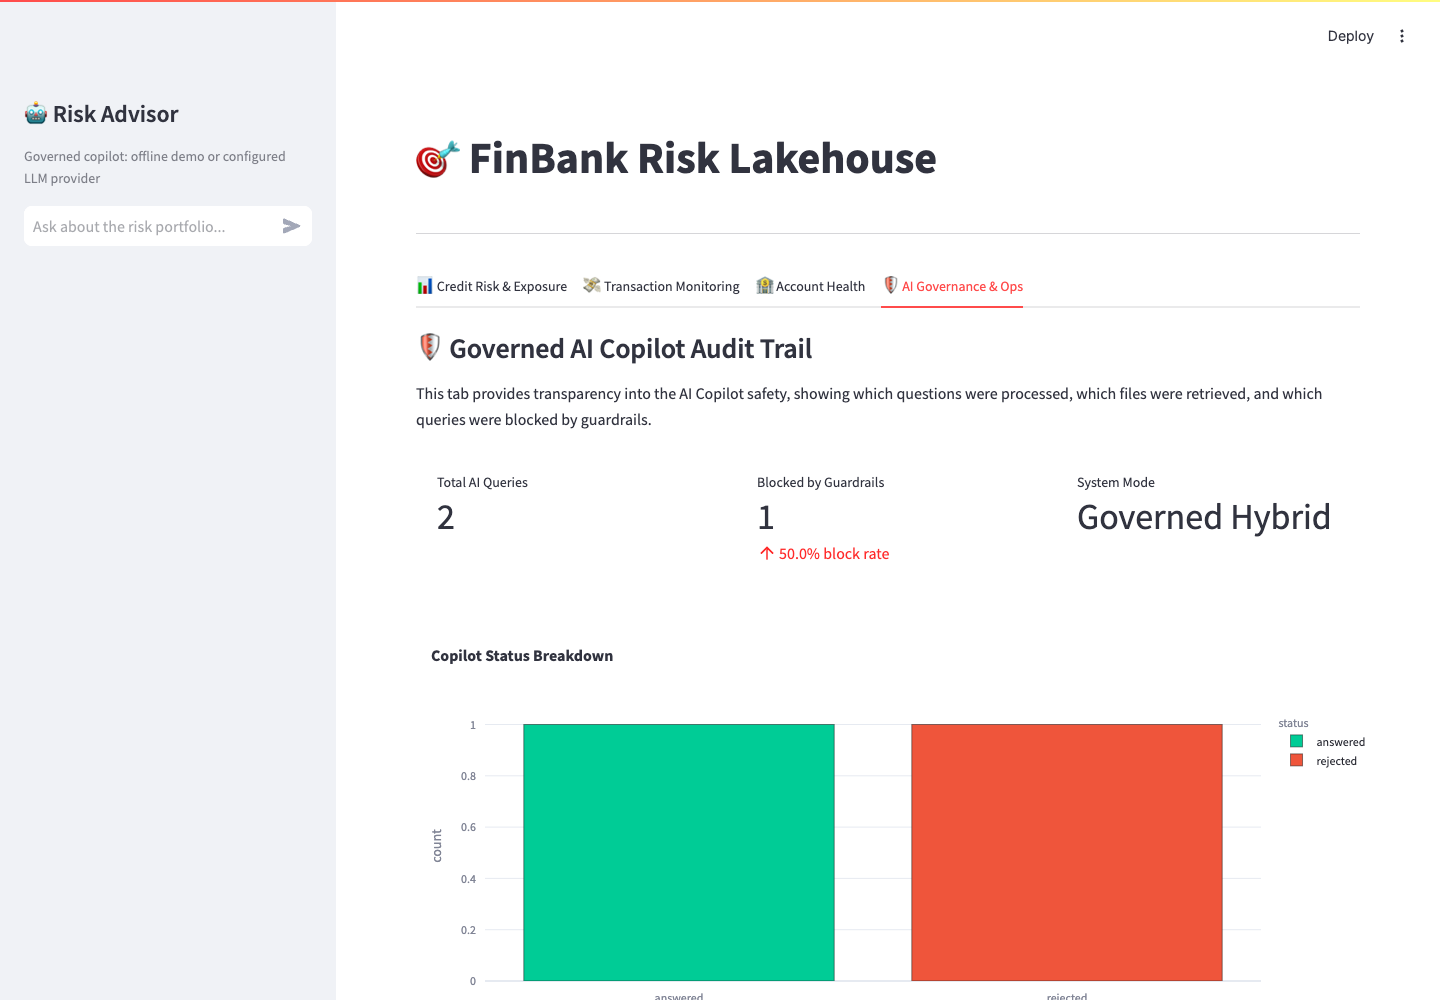
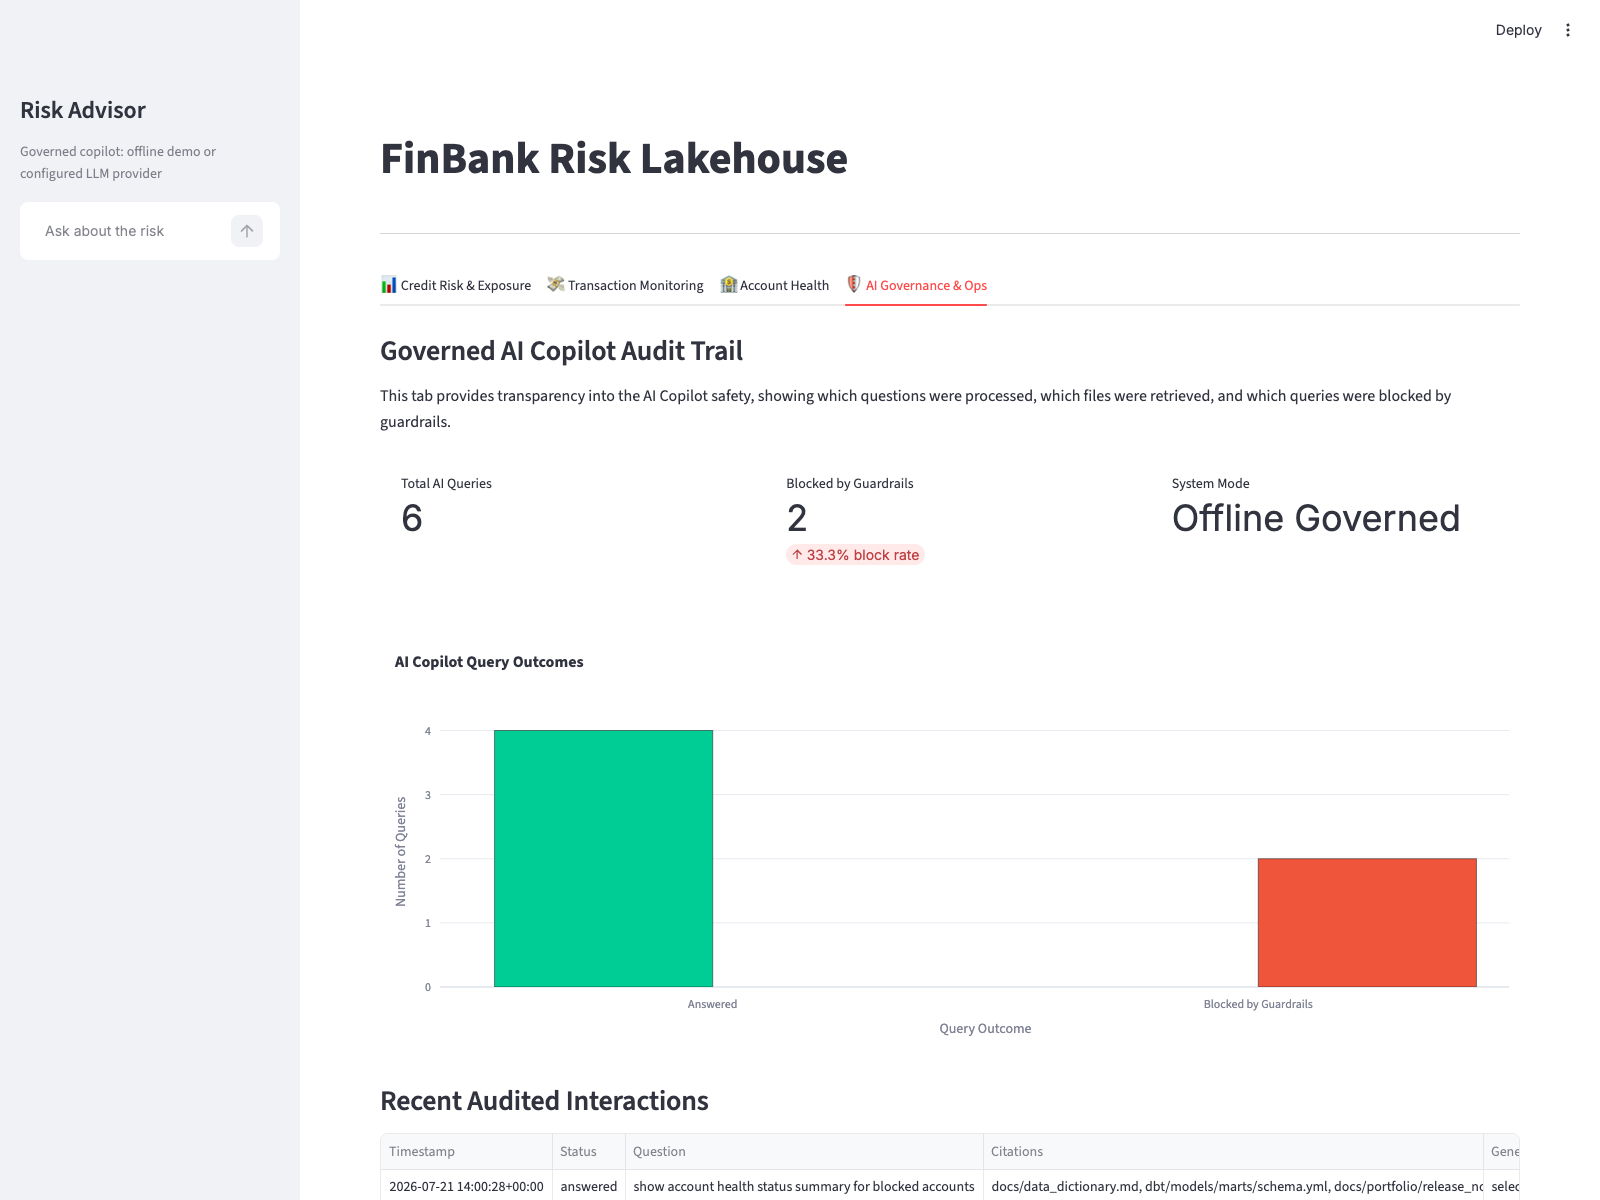
chore: refresh verified release evidence

diff --git a/dashboards/streamlit_app.py b/dashboards/streamlit_app.py
@@ -179,6 +179,7 @@ if not exposure.empty:
             "WATCHLIST": "Watchlist",
             "HIGH_RISK": "High Risk",
             "DEFAULT_RISK": "Default Risk",
+            "NO_CREDIT_EXPOSURE": "No Exposure",
         }
 
         with c1:
@@ -202,6 +203,7 @@ if not exposure.empty:
                     "Watchlist": "#636EFA",
                     "High Risk": "#EF553B",
                     "Default Risk": "#AB63FA",
+                    "No Exposure": "#FFA15A",
                 },
             )
             fig_bar.update_layout(
@@ -209,7 +211,7 @@ if not exposure.empty:
                 yaxis_tickformat=",.0f",
                 legend_title_text="Risk Status",
             )
-            st.plotly_chart(fig_bar, use_container_width=True)
+            st.plotly_chart(fig_bar, width="stretch")
 
         with c2:
             st.subheader("Risk Distribution")
@@ -234,7 +236,8 @@ if not exposure.empty:
                 textinfo="percent+label",
                 hovertemplate="%{label}: R$ %{value:,.2f}<extra></extra>",
             )
-            st.plotly_chart(fig_pie, use_container_width=True)
+            fig_pie.update_layout(showlegend=False)
+            st.plotly_chart(fig_pie, width="stretch")
 
     with tab2:
         # Transaction timeline
@@ -278,7 +281,7 @@ if not exposure.empty:
                 legend=dict(orientation="h", yanchor="bottom", y=1.02, xanchor="right", x=1),
                 hovermode="x unified",
             )
-            st.plotly_chart(fig_line, use_container_width=True)
+            st.plotly_chart(fig_line, width="stretch")
         else:
             st.info("No transaction data available.")
 
@@ -307,7 +310,7 @@ if not exposure.empty:
                         }
                     ),
                     hide_index=True,
-                    use_container_width=True,
+                    width="stretch",
                 )
         else:
             st.info(
@@ -375,8 +378,11 @@ if not exposure.empty:
                         "All Closed": "#636EFA",
                     },
                 )
-                fig_ah_bar.update_layout(legend_title_text="Health Status")
-                st.plotly_chart(fig_ah_bar, use_container_width=True)
+                fig_ah_bar.update_layout(
+                    legend=dict(orientation="h", yanchor="bottom", y=1.02, xanchor="left", x=0),
+                    legend_title_text="",
+                )
+                st.plotly_chart(fig_ah_bar, width="stretch")
 
             with ah2:
                 st.subheader("Health Distribution")
@@ -400,7 +406,8 @@ if not exposure.empty:
                     textinfo="percent+label",
                     hovertemplate="%{label}: %{value} customers<extra></extra>",
                 )
-                st.plotly_chart(fig_ah_pie, use_container_width=True)
+                fig_ah_pie.update_layout(showlegend=False)
+                st.plotly_chart(fig_ah_pie, width="stretch")
 
             st.markdown("---")
             st.markdown("### Active Ratio by State")
@@ -420,7 +427,7 @@ if not exposure.empty:
                 yaxis_ticksuffix="%",
                 xaxis_categoryorder="category ascending",
             )
-            st.plotly_chart(fig_ah_state, use_container_width=True)
+            st.plotly_chart(fig_ah_state, width="stretch")
         else:
             st.info("No account health data available. Run `make pipeline` and `make dbt` first.")
 
@@ -488,8 +495,8 @@ if not exposure.empty:
                 template="plotly_dark",
                 color_discrete_map={"Answered": "#00CC96", "Blocked by Guardrails": "#EF553B"},
             )
-            fig_audit.update_layout(legend_title_text="Query Outcome")
-            st.plotly_chart(fig_audit, use_container_width=True)
+            fig_audit.update_layout(showlegend=False)
+            st.plotly_chart(fig_audit, width="stretch")
 
             # Audit log table
             st.markdown("### Recent Audited Interactions")
@@ -508,7 +515,7 @@ if not exposure.empty:
                     }
                 )
                 .sort_values("Timestamp", ascending=False),
-                use_container_width=True,
+                width="stretch",
                 hide_index=True,
             )
         else:

diff --git a/tests/test_evidence_pack.py b/tests/test_evidence_pack.py
@@ -84,6 +84,32 @@ def test_git_output_allows_slow_local_git(monkeypatch, tmp_path: Path) -> None:
     assert observed["timeout"] >= 30
 
 
+def test_normalize_remote_url_uses_public_url_for_local_clone() -> None:
+    assert evidence_pack._normalize_remote_url("/tmp/finbank-risk-lakehouse-starter") == (
+        "https://github.com/DanielBBrasileiro/finbank-risk-lakehouse"
+    )
+
+
+def test_collect_validation_metrics_preserves_coverage_precision(tmp_path: Path, monkeypatch) -> None:
+    responses = iter(
+        [
+            "abc123",
+            "80 tests collected",
+            '{"totals": {"percent_covered": 70.68201948627103}}',
+            "accepts_rows: test\nrejects_rows: test",
+        ]
+    )
+    monkeypatch.setattr(evidence_pack, "_git_output", lambda *_args, **_kwargs: next(responses))
+    monkeypatch.setattr(evidence_pack, "_command_output", lambda *_args, **_kwargs: next(responses))
+    run_results = tmp_path / "dbt" / "target" / "run_results.json"
+    run_results.parent.mkdir(parents=True)
+    run_results.write_text('{"results": [{"status": "pass"}]}', encoding="utf-8")
+
+    metrics = evidence_pack.collect_validation_metrics(project_root=tmp_path)
+
+    assert metrics["python_coverage_percent"] == 70.68
+
+
 def test_validation_markdown_marks_matching_commit() -> None:
     validation = {
         "validated_at_utc": "2026-07-21T12:00:00+00:00",

diff --git a/scripts/evidence_pack.py b/scripts/evidence_pack.py
@@ -9,6 +9,7 @@ from datetime import UTC, datetime
 from pathlib import Path
 
 VALIDATION_RECORD = Path("data/validation/last_success.json")
+PUBLIC_REPOSITORY_URL = "https://github.com/DanielBBrasileiro/finbank-risk-lakehouse"
 
 
 def build_evidence_markdown(*, project_root: Path = Path(".")) -> str:
@@ -146,11 +147,12 @@ def collect_validation_metrics(*, project_root: Path = Path(".")) -> dict:
 
     coverage_output = _command_output(
         project_root,
-        [str(project_root / ".venv" / "bin" / "python"), "-m", "coverage", "report", "--format=total"],
+        [str(project_root / ".venv" / "bin" / "python"), "-m", "coverage", "json", "-o", "-"],
     )
-    coverage_match = re.search(r"\d+(?:\.\d+)?", coverage_output)
-    if not coverage_match:
-        raise RuntimeError("Could not determine Python coverage from .coverage.")
+    try:
+        coverage_percent = json.loads(coverage_output)["totals"]["percent_covered"]
+    except (json.JSONDecodeError, KeyError, TypeError) as exc:
+        raise RuntimeError("Could not determine Python coverage from .coverage.") from exc
 
     rust_output = _command_output(
         project_root,
@@ -173,7 +175,7 @@ def collect_validation_metrics(*, project_root: Path = Path(".")) -> dict:
         "commit": commit,
         "python_tests_collected": int(collected_match.group(1)),
         "python_tests_passed": int(collected_match.group(1)),
-        "python_coverage_percent": float(coverage_match.group()),
+        "python_coverage_percent": round(float(coverage_percent), 2),
         "rust_tests_passed": rust_tests,
         "dbt_checks_total": sum(dbt_statuses.values()),
         "dbt_statuses": dbt_statuses,
@@ -242,7 +244,9 @@ def _normalize_remote_url(remote_url: str) -> str:
         remote_url = remote_url[:-4]
     if remote_url.startswith("[email redacted]:"):
         return "https://github.com/" + remote_url.removeprefix("[email redacted]:")
-    return remote_url
+    if remote_url.startswith(("https://github.com/", "http://github.com/")):
+        return remote_url
+    return PUBLIC_REPOSITORY_URL
 
 
 def _sha256(path: Path) -> str:

diff --git a/docs/portfolio/linkedin_post.md b/docs/portfolio/linkedin_post.md
@@ -20,7 +20,7 @@ Some of the engineering decisions behind it:
 
 The repository also includes automated checks for Python, Rust, dbt, DuckDB, PostgreSQL, Airflow, Terraform, dependency security and CodeQL.
 
-Final release validation: `{{PYTHON_TESTS_PASSED}}` Python tests passed with `{{PYTHON_COVERAGE_PERCENT}}%` source coverage, `{{RUST_TESTS_PASSED}}` Rust tests passed, and `{{DBT_CHECKS_TOTAL}}` dbt checks completed (`{{DBT_STATUS_SUMMARY}}`).
+Final release validation: 80 Python tests passed with 70.68% source coverage, 2 Rust tests passed, and 78 dbt checks completed (62 passed tests, 14 successful resources and 2 no-op exposures).
 
 The default workflow uses synthetic data and runs locally without paid cloud services. AWS, Databricks and Snowflake are documented as evolution paths rather than deployed environments.
 
@@ -52,7 +52,7 @@ Algumas decisões de engenharia do projeto:
 
 O repositório também inclui verificações automatizadas para Python, Rust, dbt, DuckDB, PostgreSQL, Airflow, Terraform, segurança de dependências e CodeQL.
 
-Validação final da release: `{{PYTHON_TESTS_PASSED}}` testes Python aprovados, cobertura de código-fonte de `{{PYTHON_COVERAGE_PERCENT}}%`, `{{RUST_TESTS_PASSED}}` testes Rust aprovados e `{{DBT_CHECKS_TOTAL}}` verificações dbt concluídas (`{{DBT_STATUS_SUMMARY}}`).
+Validação final da release: 80 testes Python aprovados, cobertura de código-fonte de 70,68%, 2 testes Rust aprovados e 78 verificações dbt concluídas (62 testes aprovados, 14 recursos executados com sucesso e 2 exposições sem operação).
 
 O fluxo padrão usa dados sintéticos e roda localmente sem serviços cloud pagos. AWS, Databricks e Snowflake estão documentados como caminhos de evolução, não como ambientes implantados.
 
@@ -80,14 +80,14 @@ Repository: https://github.com/DanielBBrasileiro/finbank-risk-lakehouse
 - Release: https://github.com/DanielBBrasileiro/finbank-risk-lakehouse/releases/tag/v1.0.1-portfolio
 - Release commit: target of `v1.0.1-portfolio`; the exact SHA is included in the attached evidence pack.
 - Tag: `v1.0.1-portfolio`
-- Validation date (UTC): `{{VALIDATION_DATE_UTC}}`
-- Python tests: `{{PYTHON_TESTS_PASSED}}` passed
-- Python coverage: `{{PYTHON_COVERAGE_PERCENT}}%`
-- Rust tests: `{{RUST_TESTS_PASSED}}` passed
-- dbt checks: `{{DBT_CHECKS_TOTAL}}` (`{{DBT_STATUS_SUMMARY}}`)
-- Streaming replay: `{{STREAMING_REPLAY_STATUS}}`
-- Streamlit smoke test: `{{DASHBOARD_SMOKE_STATUS}}`
-- CI: `{{CI_STATUS}}`
-- CodeQL: `{{CODEQL_STATUS}}`
+- Validation date (UTC): `2026-07-21`
+- Python tests: `80` passed
+- Python coverage: `70.68%`
+- Rust tests: `2` passed
+- dbt checks: `78` (`62 pass`, `14 success`, `2 no-op`)
+- Streaming replay: passed
+- Streamlit smoke test: passed
+- CI: green on the tagged release commit
+- CodeQL: green on the tagged release commit
 - Preferred language: publish the English version and keep the Portuguese version for a follow-up comment or repost.
 - Suggested attachments: architecture overview, dashboard, dbt lineage, copilot controls and GitHub Actions summary.

diff --git a/docs/portfolio/release_notes_v1.0.1.md b/docs/portfolio/release_notes_v1.0.1.md
@@ -57,13 +57,12 @@ DB_TARGET=duckdb make run-dashboard
 
 - Release tag: `v1.0.1-portfolio`
 - Release commit: target of the annotated tag; the exact SHA is recorded in the attached `evidence.md`.
-- Validation date (UTC): `{{VALIDATION_DATE_UTC}}`
-- Python tests: `{{PYTHON_TESTS_PASSED}}` passed
-- Python coverage: `{{PYTHON_COVERAGE_PERCENT}}%`
-- Rust tests: `{{RUST_TESTS_PASSED}}` passed
-- dbt checks: `{{DBT_CHECKS_TOTAL}}` (`{{DBT_STATUS_SUMMARY}}`)
-- Streaming replay: `{{STREAMING_REPLAY_STATUS}}`
-- Streamlit smoke test: `{{DASHBOARD_SMOKE_STATUS}}`
-- CI: `{{CI_STATUS}}`
-- CodeQL: `{{CODEQL_STATUS}}`
-
+- Validation date (UTC): `2026-07-21`
+- Python tests: `80` passed
+- Python coverage: `70.68%`
+- Rust tests: `2` passed
+- dbt checks: `78` (`62 pass`, `14 success`, `2 no-op`)
+- Streaming replay: passed
+- Streamlit smoke test: passed
+- CI: green on the tagged release commit
+- CodeQL: green on the tagged release commit

diff --git a/docs/roadmap.md b/docs/roadmap.md
@@ -22,7 +22,7 @@
 - [x] Consolidate the architecture diagram into one reusable Mermaid source.
 - [x] Add release metrics to the generated evidence pack.
 - [x] Standardize LinkedIn, CV, carousel and release materials.
-- [ ] Publish the validated `v1.0.1-portfolio` tag and release.
+- [x] Publish the validated `v1.0.1-portfolio` tag and release.
 
 ## Post-v1 Evolution
 